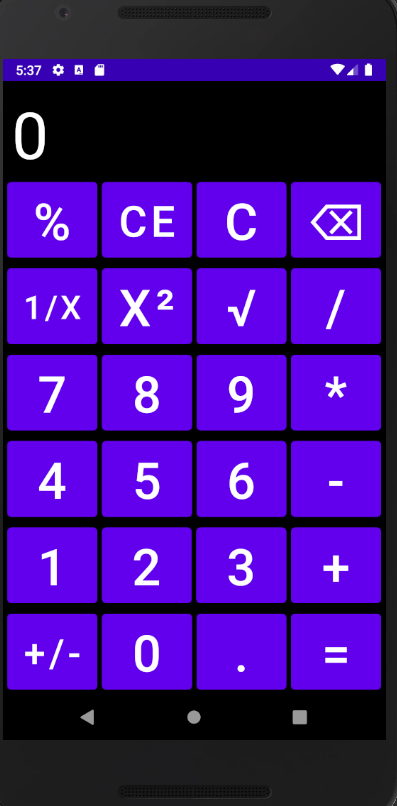
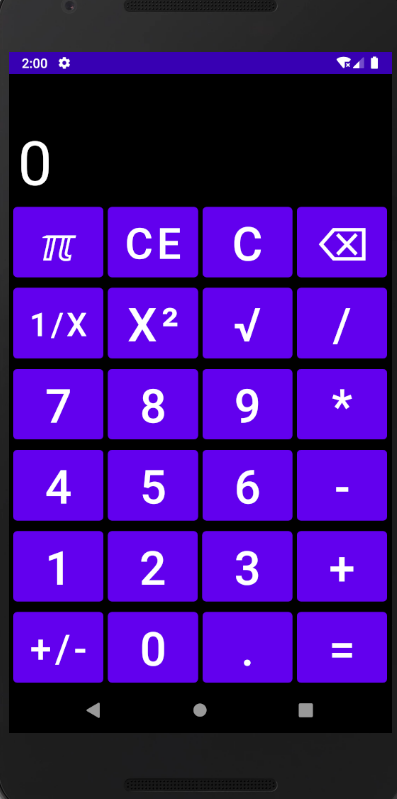
Final v1

diff --git a/app/src/main/java/com/example/calculadora/MainActivity.java b/app/src/main/java/com/example/calculadora/MainActivity.java
@@ -114,7 +114,6 @@ public class MainActivity extends AppCompatActivity {
 
     public void CE(View view) {
         tv1.setText("0");
-        tv2.setText("");
     }
 
     public void C(View view) {
@@ -388,8 +387,45 @@ public class MainActivity extends AppCompatActivity {
         }
     }
 
-    public void Porcentaje(View view){
+    public void DividirUno(View view) {
+        String cad = tv1.getText().toString();
+        if (cad.isEmpty() || cad.equals("0")) {
+        } else {
+            Float n1 = Float.parseFloat(cad);
+            n1 = 1 / n1;
+            String resDiv = String.valueOf(n1);
+            tv2.setText(resDiv);
+            tv1.setText("0");
 
+        }
+    }
+
+    public void Exponente(View view) {
+        String cad = tv1.getText().toString();
+        if (cad.isEmpty() || cad.equals("0")) {
+        } else {
+            Float n1 = Float.parseFloat(cad);
+            Float cuadrado = n1 * n1;
+            String resCuadrado = String.valueOf(cuadrado);
+            if (resCuadrado.charAt(resCuadrado.length() - 1) == '0' && resCuadrado.charAt(resCuadrado.length() - 2) == '.') {//si el resultado termina en .0 quitamos ese .0 por que es redundante
+                int resAInt = Math.round(cuadrado);
+                String resAString = String.valueOf(resAInt);
+                tv2.setText(resAString);
+                tv1.setText("0");
+            } else {
+                tv2.setText(resCuadrado);
+                tv1.setText("0");
+            }
+        }
+    }
+
+    public void Porciento(View view) {
+        String cad = tv1.getText().toString();
+        if (cad.isEmpty() || cad.equals("0")) {
+            tv1.setText("3.1416");
+        }else{
+            tv1.append("3.1416");
+        }
     }
 }
 
